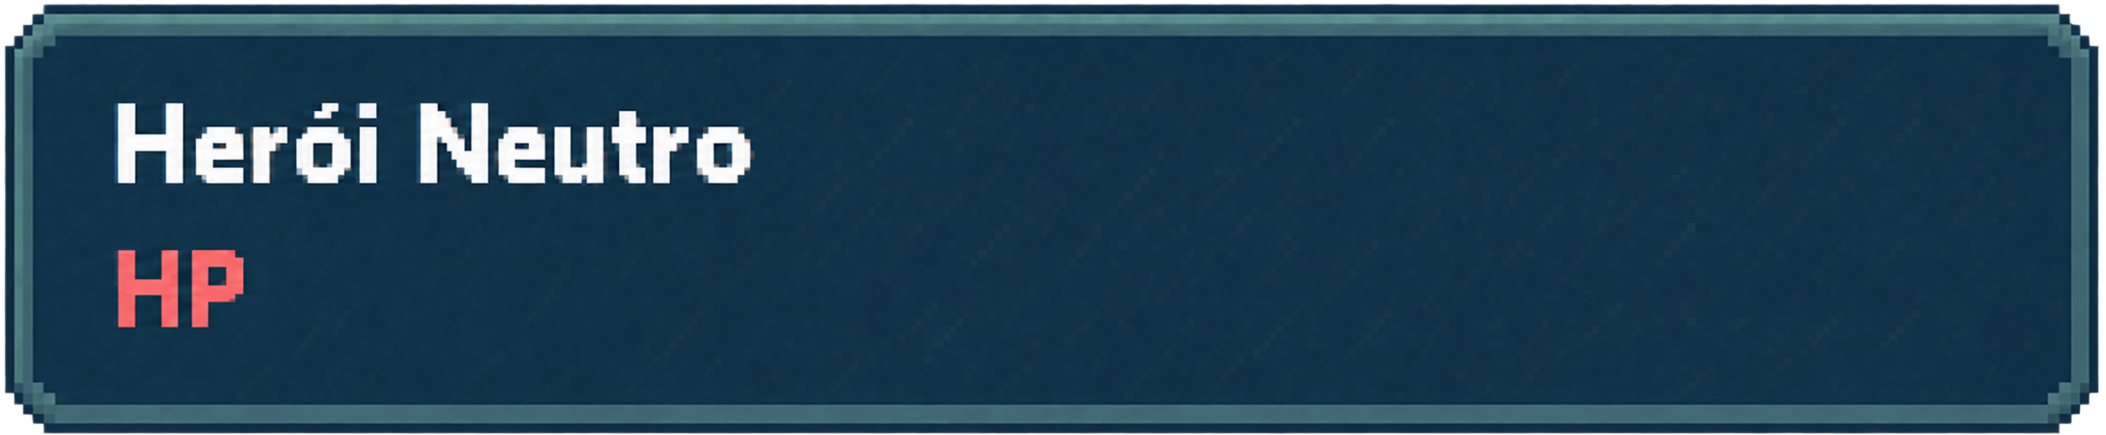
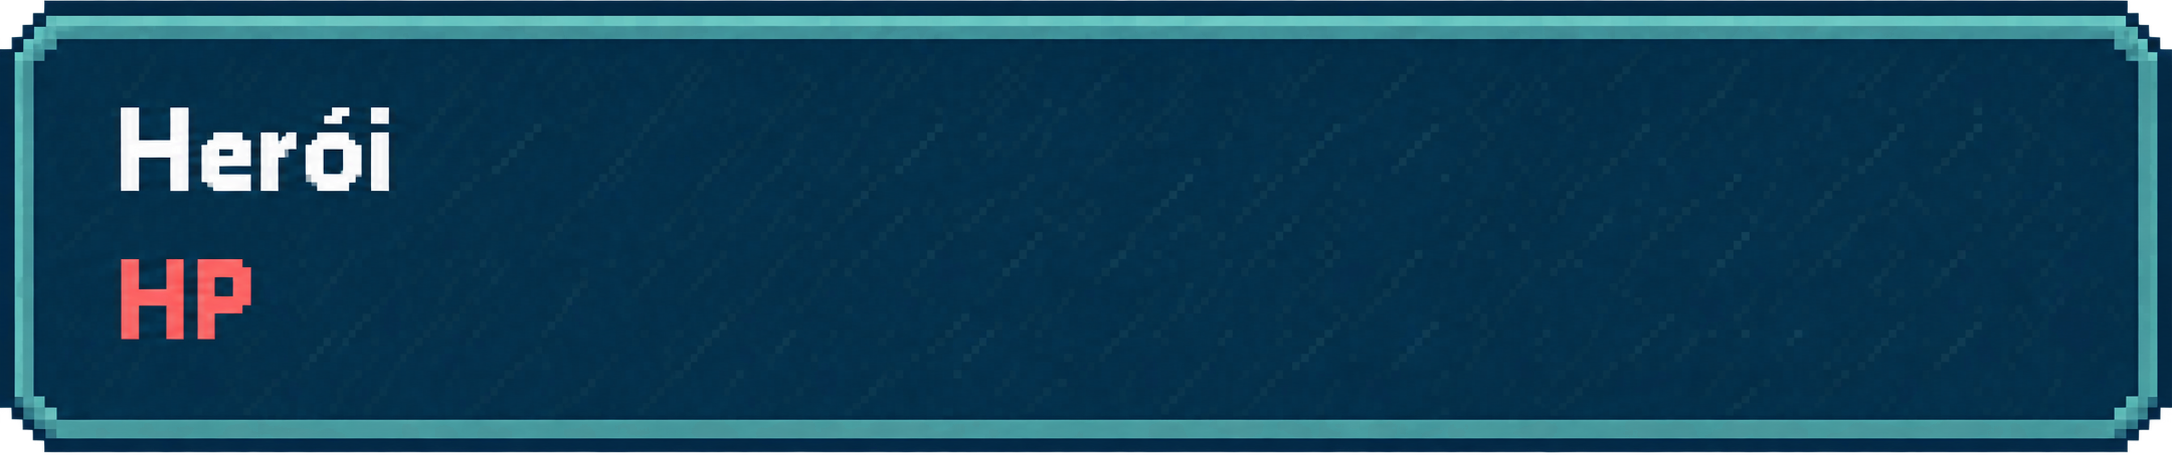
adicao de som de eletricidade e do arbusto

diff --git a/src/main/java/com/alemdoequilibrio/game/ExplorationController.java b/src/main/java/com/alemdoequilibrio/game/ExplorationController.java
@@ -1222,7 +1222,7 @@ public class ExplorationController {
             String dialogueId) {
 
         hero.setPosition(
-                1520,
+                1550,
                 hero.getY()
         );
 
